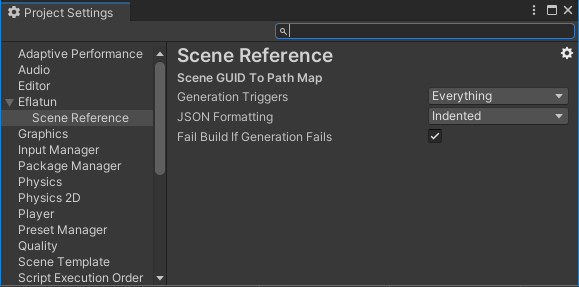
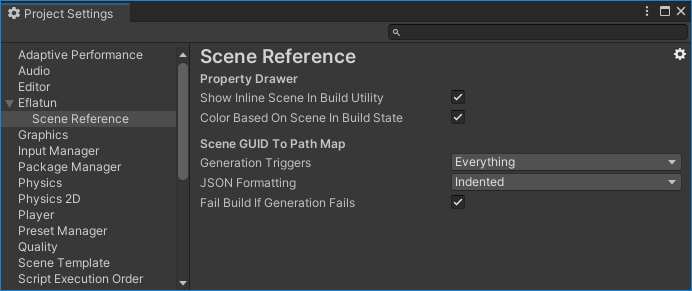
docs: update readme for scene in build validation

Changed region(s): [[0.0, 0.0, 1.0, 1.0], [0.6528, 0.3902, 0.6839, 0.4181], [0.6528, 0.3066, 0.6839, 0.3345]]

diff --git a/Eflatun.SceneReference/Assets/Demo/Demo.cs b/Eflatun.SceneReference/Assets/Demo/Demo.cs
@@ -4,8 +4,8 @@ using UnityEngine;
 
 public class Demo : MonoBehaviour
 {
-    [SerializeField] private SceneReference sceneReference;
-    [SerializeField] private SceneReference anotherSceneReference;
-    [SerializeField] private SceneReference yetAnotherSceneReference;
+    [SerializeField] private SceneReference scene;
+    [SerializeField] private SceneReference anotherScene;
+    [SerializeField] private SceneReference yetAnotherScene;
     [SerializeField] private List<SceneReference> sceneReferenceList;
 }

diff --git a/README.md b/README.md
@@ -87,6 +87,28 @@ var sceneName = mySceneReference.Name;
 var loadedScene = mySceneReference.LoadedScene
 ```
 
+## Inline Scene In Build Validation & Fix Utility
+
+Unity only includes in a build the scenes that are added and enabled in build settings. `Eflatun.SceneReference` on the other hand, allows you to assign on to it any scene you wish. This behaviour may cause runtime bugs when loading scenes. To prevent these potential bugs, `Eflatun.SceneReference` provides inline validation and fix utilities.
+
+In this example:
+
+![.assets/validation_inspector.png](.assets/validation_inspector.png)
+
+- `Another Scene` field is assigned a scene that is disabled in build settings.
+- `Yet Another Scene` field is assigned a scene that is not included in build settings.
+- Similarly for the `Scene Reference List` property.
+
+Clicking on the `Enable in Build...` button gives us this prompt, which enables us to quickly fix the situation:
+
+![.assets/validation_enable_prompt.png](.assets/validation_enable_prompt.png)
+
+Similarly, `Add to Build...` button gives the following prompt:
+
+![.assets/validation_add_prompt.png](.assets/validation_add_prompt.png)
+
+Using these prompts, we can quickly alleviate the situation, and prevent potential runtime bugs when loading these scenes.
+
 # Settings
 
 `Eflatun.SceneReference` provides settings under the `Project Settings`.
@@ -97,7 +119,28 @@ Look for the `Eflatun` category in the left panel. Select the `Scene Reference` 
 
 ![.assets/settings.png](.assets/settings.png)
 
-## Generation Triggers
+## Property Drawer
+
+### Show Inline Scene In Build Utility
+
+Should we show the inline utility that allows you to quickly fix scenes that are either not in build or disabled in build?
+
+Unity only bundles scenes that are added and enabled in build settings. Therefore, you would want to make sure the scene you assign to a
+SceneReference is added and enabled in build settings.
+
+It is recommended to leave this option at 'true', as the inline utility saves you a lot of time.
+
+### Color Based On Scene In Build State
+
+Should we color the property to draw attention for scenes that are either not in build or disabled in build?
+
+Unity only bundles scenes that are added and enabled in build settings. Therefore, you would want to validate whether the scene you assign to a SceneReference is added and enabled in build settings.
+
+It is recommended to leave this option at 'true', as it will help you identify many potential runtime errors.
+
+## Scene GUID To Path Map
+
+### Generation Triggers
 
 Controls when the Scene GUID to Path Map gets regenerated.
 
@@ -109,13 +152,13 @@ Controls when the Scene GUID to Path Map gets regenerated.
 
 It is recommended that you leave this option at _All_ unless you are debugging something. Failure to generate the map when needed can result in broken scene references in runtime.
 
-## JSON Formatting
+### JSON Formatting
 
 Controls the Scene GUID to Path Map Generator's JSON formatting.
 
 It is recommended to leave this option at _Indented_, as it will help with version control and make the generated file human-readable.
 
-## Fail Build If Generation Fails
+### Fail Build If Generation Fails
 
 Should we fail a build if scene GUID to path map generation fails?
 
@@ -195,10 +238,6 @@ In editor, there are also no performance penalties except for one case. The gene
 3. You access `SceneGuidToPathMapProvider.SceneGuidToPathMap`.
 4. Provider checks to see if it still has the map values, and realizes they are lost.
 5. Provider parses the map file.
-
-# Caveats
-
-`Eflatun.SceneReference` provides you with the information it has no matter what. It doesn't do any validation on whether the scene is in the build (_yet! [this is a planned feature](https://github.com/starikcetin/Eflatun.SceneReference/issues/4)_). If your scene is not added to Build Settings or it is not enabled, you won't be able to load it, as Unity only bundles the scenes added and enabled in Build Settings.
 
 # Acknowledgments
 
